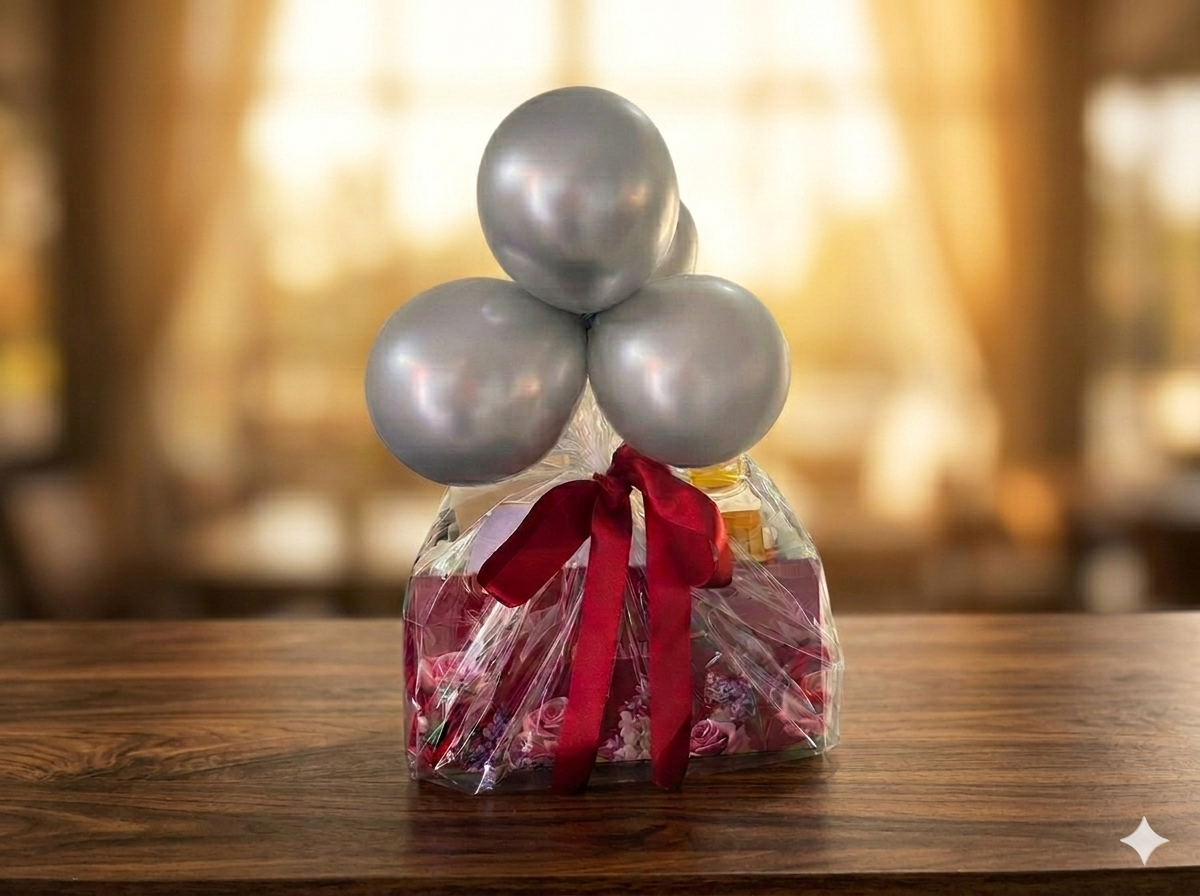
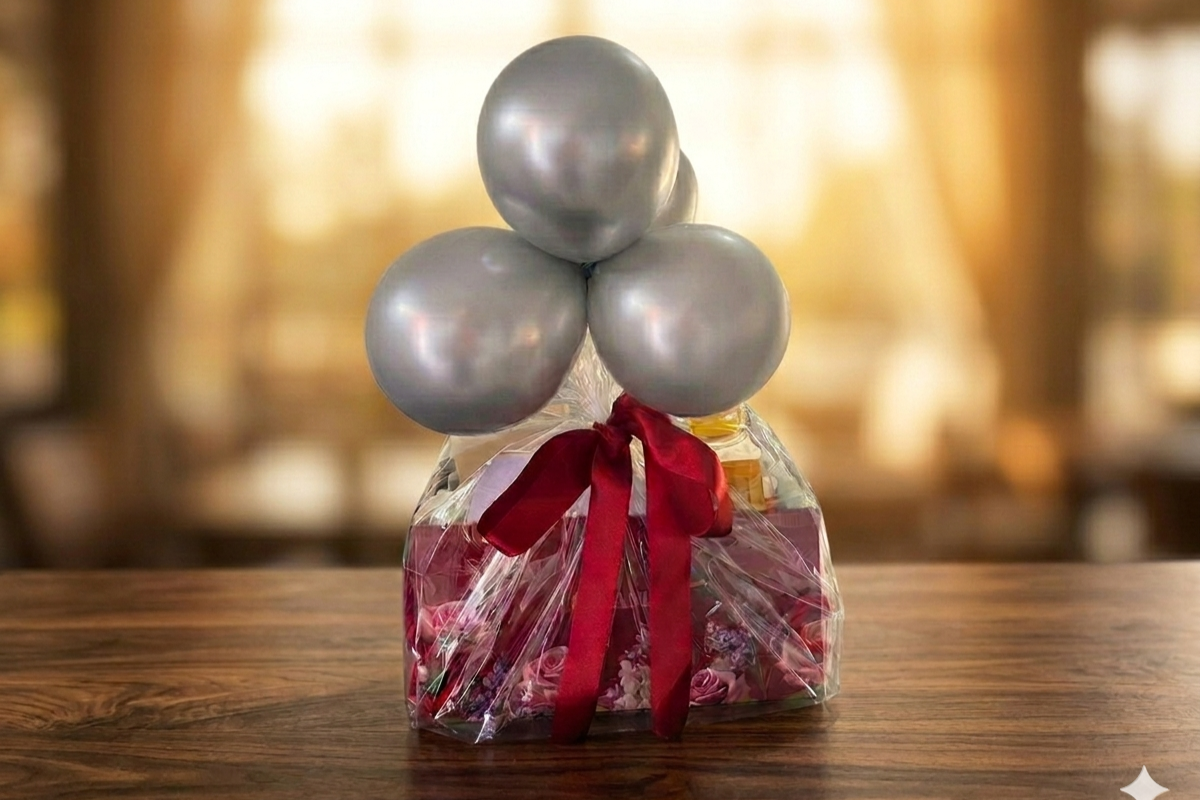
ajuste no formulário, formato data

diff --git a/app/page.jsx b/app/page.jsx
@@ -7,6 +7,7 @@ export default function Home() {
   const [modalAberto, setModalAberto] = useState(false);
   const [etapa, setEtapa] = useState(1);
   const [cestaSelecionada, setCestaSelecionada] = useState(null);
+  const [mesmoDestinatario, setMesmoDestinatario] = useState(false);
 
   const [form, setForm] = useState({
     nome: "",
@@ -43,9 +44,34 @@ export default function Home() {
   const handleWhatsApp = () => {
     if (!cestaSelecionada) return;
 
-    const msg = `*Pedido: ${cestaSelecionada.nome}*%0A*De:* ${form.nome}%0A*Para:* ${form.destinatario}%0A*Data:* ${form.data} às ${form.horario}%0A*Endereço para entrega:* ${form.endereco}%0A*Pagamento:* ${form.metodoPgto}`;
+    // Lógica para definir o texto do destinatário
+    const textoDestinatario = mesmoDestinatario
+      ? "Eu mesmo irei receber"
+      : form.destinatario;
+
+    const formatarDataBR = (dataEntrada) => {
+      if (!dataEntrada) return "Não informada";
+      const [ano, mes, dia] = dataEntrada.split("-");
+      return `${dia}/${mes}/${ano.slice(-2)}`; // O slice(-2) pega apenas os últimos 2 dígitos do ano
+    };
+
+    const dataFinal = formatarDataBR(form.data);
+
+    const msg =
+      `*Pedido: ${cestaSelecionada.nome}*%0A` +
+      `*De:* ${form.nome}%0A` +
+      `*Para:* ${textoDestinatario}%0A` +
+      `*Data:* ${dataFinal} às ${form.horario}%0A` +
+      `*Endereço para entrega:* ${form.endereco}%0A` +
+      `*Pagamento:* ${form.metodoPgto}`;
+
     window.open(`https://wa.me/5598992274652?text=${msg}`, "_blank");
   };
+
+  // Calcula o dia de amanhã
+  const amanha = new Date();
+  amanha.setDate(amanha.getDate() + 1);
+  const dataMinima = amanha.toISOString().split("T")[0];
 
   return (
     <main className="min-h-screen bg-soft pb-10">
@@ -84,7 +110,7 @@ export default function Home() {
             >
               {/* Cabeçalho do Card - Slim */}
               <div className="bg-primary p-3 text-center border-b-2 border-secondary/30">
-                <h3 className="text-lg font-serif font-bold text-secondary uppercase tracking-tighter leading-tight truncate">
+                <h3 className="text-lg font-serif font-bold text-secondary tracking-tighter leading-tight truncate">
                   {cesta.nome}
                 </h3>
               </div>
@@ -92,7 +118,7 @@ export default function Home() {
               {/* CORREÇÃO 2: 'h-48' em vez de 'h-64' para reduzir a imagem */}
               <div
                 className="relative w-full border-b border-accent/10 overflow-hidden"
-                style={{ aspectRatio: "1200 / 896" }}
+                style={{ aspectRatio: "1200 / 750" }}
               >
                 <Image
                   src={cesta.imagem}
@@ -188,7 +214,8 @@ export default function Home() {
                     }}
                   >
                     {/* Bloco 1: Identificação (Quem Pede e Recebe) */}
-                    <div className="space-y-4">
+                    <div className="space-y-6">
+                      {/* Campo: Quem está pedindo */}
                       <div className="relative group">
                         <input
                           type="text"
@@ -196,9 +223,18 @@ export default function Home() {
                           className="peer w-full border-b-2 border-accent/20 bg-transparent p-4 pl-0 text-base text-gray-800 placeholder-transparent focus:border-primary focus:outline-none transition-colors"
                           placeholder="Seu Nome"
                           id="nomePede"
-                          onChange={(e) =>
-                            setForm({ ...form, nome: e.target.value })
-                          }
+                          value={form.nome}
+                          onChange={(e) => {
+                            const novoNome = e.target.value;
+                            setForm({
+                              ...form,
+                              nome: novoNome,
+                              // Se o checkbox estiver marcado, atualiza o destinatário junto
+                              destinatario: mesmoDestinatario
+                                ? novoNome
+                                : form.destinatario,
+                            });
+                          }}
                         />
                         <label
                           htmlFor="nomePede"
@@ -207,15 +243,45 @@ export default function Home() {
                           Quem está pedindo?{" "}
                           <span className="text-primary/70">*</span>
                         </label>
+
+                        {/* Checkbox de Auto-entrega */}
+                        <div className="flex items-center gap-2 mt-2 ml-1">
+                          <input
+                            type="checkbox"
+                            id="mesmoDestinatario"
+                            className="w-4 h-4 rounded border-gray-300 text-primary focus:ring-primary accent-primary cursor-pointer"
+                            checked={mesmoDestinatario}
+                            onChange={(e) => {
+                              const marcado = e.target.checked;
+                              setMesmoDestinatario(marcado);
+                              if (marcado) {
+                                setForm({ ...form, destinatario: form.nome });
+                              }
+                            }}
+                          />
+                          <label
+                            htmlFor="mesmoDestinatario"
+                            className="text-xs text-gray-500 cursor-pointer select-none"
+                          >
+                            Eu mesmo irei receber
+                          </label>
+                        </div>
                       </div>
 
-                      <div className="relative group">
+                      {/* Campo: Quem vai receber */}
+                      <div
+                        className={`relative group transition-opacity ${mesmoDestinatario ? "opacity-50" : "opacity-100"}`}
+                      >
                         <input
                           type="text"
-                          required
-                          className="peer w-full border-b-2 border-accent/20 bg-transparent p-4 pl-0 text-base text-gray-800 placeholder-transparent focus:border-primary focus:outline-none transition-colors"
+                          required={!mesmoDestinatario}
+                          disabled={mesmoDestinatario}
+                          className="peer w-full border-b-2 border-accent/20 bg-transparent p-4 pl-0 text-base text-gray-800 placeholder-transparent focus:border-primary focus:outline-none transition-colors disabled:cursor-not-allowed"
                           placeholder="Nome de quem recebe"
                           id="nomeRecebe"
+                          value={
+                            mesmoDestinatario ? form.nome : form.destinatario
+                          }
                           onChange={(e) =>
                             setForm({ ...form, destinatario: e.target.value })
                           }
@@ -224,7 +290,9 @@ export default function Home() {
                           htmlFor="nomeRecebe"
                           className="absolute left-0 -top-3 text-sm text-primary group-focus-within:text-xs group-focus-within:-top-5 group-focus-within:text-gray-500 transition-all cursor-text peer-placeholder-shown:text-base peer-placeholder-shown:top-4 peer-placeholder-shown:text-gray-400"
                         >
-                          Quem vai receber?{" "}
+                          {mesmoDestinatario
+                            ? "Destinatário igual ao remetente"
+                            : "Quem vai receber?"}{" "}
                           <span className="text-primary/70">*</span>
                         </label>
                       </div>
@@ -244,6 +312,11 @@ export default function Home() {
                             type="date"
                             className="w-full h-12 px-4 rounded-xl border border-accent/20 bg-white text-sm focus:outline-none focus:border-primary text-gray-600"
                             required
+                            min={dataMinima}
+                            value={form.data || ""}
+                            onChange={(e) =>
+                              setForm({ ...form, data: e.target.value })
+                            }
                           />
                         </div>
 
@@ -253,8 +326,11 @@ export default function Home() {
                             type="time"
                             className="w-full h-12 px-4 rounded-xl border border-accent/20 bg-white text-sm focus:outline-none focus:border-primary text-gray-600"
                             required
+                            value={form.horario || ""}
+                            onChange={(e) =>
+                              setForm({ ...form, horario: e.target.value })
+                            }
                           />
-                          {/* Estilização para simular placeholder em navegadores que suportam */}
                           <style jsx>{`
                             input[type="time"]:inline-block:before {
                               content: "Hora";
